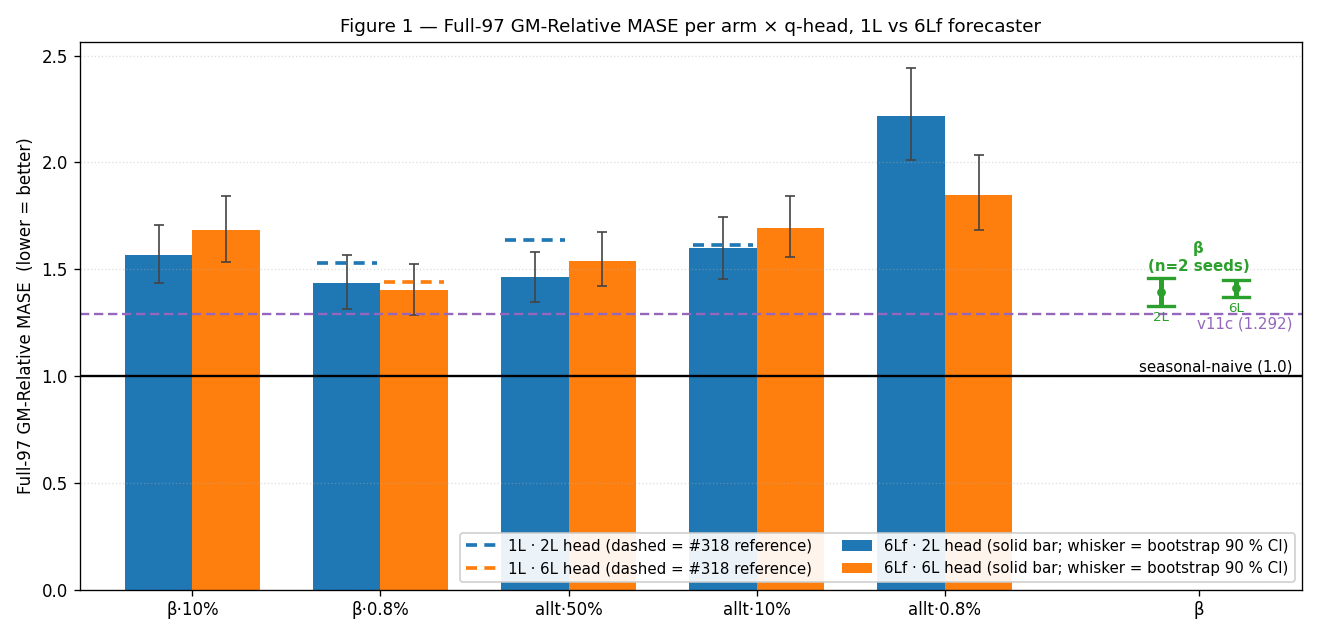
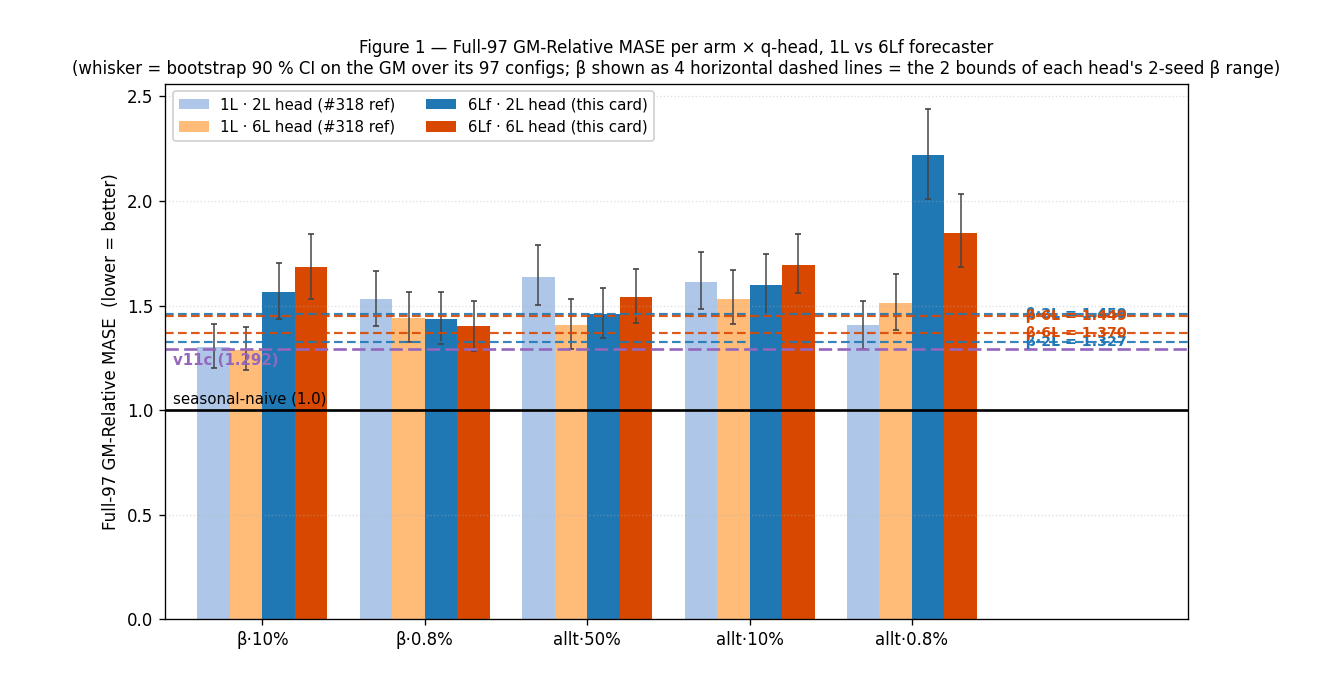
plots(#320 Fig 1): β as 4 full-width horizontal dashed lines (2L pair + 6L pair)
Per the reviewer's clarification on #321: bound lines should span the whole
plot (like v11c does) — never scoped to a single bar (the previous per-bar
dashes were confusing and have been deleted). The β candle on its own x-tick
is also gone; β now appears as 4 horizontal dashed lines across the plot, one
per bound (β·2L low/high in blue, β·6L low/high in orange), with the bound
value tagged at the right end of each line. Variance whiskers are kept on
every bar (bootstrap 90 % CI over the 97 per-config relatives).

diff --git a/experiments/2026-05-26_forked_6Lf/scripts/plots.py b/experiments/2026-05-26_forked_6Lf/scripts/plots.py
@@ -99,80 +99,73 @@ def paired_delta_ci(d1, d6, n=2000, seed=0):
     return (delta, ds[int(0.05 * n)], ds[int(0.95 * n)])
 
 
-# One colour per q-head; 6Lf this card = solid bar (with bootstrap CI whisker);
-# 1L #318 reference = DASHED line at the 1L value, same colour. So per arm × head,
-# the bar sits below the dashed line iff 6Lf is better than 1L there.
-C_2L   = "#1f77b4"   # blue   — 2L q-head
-C_6L   = "#ff7f0e"   # orange — 6L q-head
-C_BETA = "#2ca02c"   # green for β candle
-C_V11C = "#9467bd"   # purple for v11c
+# 4 bars per arm. Light = 1L #318 reference, dark = 6Lf this card.
+# Blue family = 2L q-head, orange family = 6L q-head.
+C_2L_1L = "#aec7e8"   # light blue   — 1L · 2L head (reference)
+C_2L_6F = "#1f77b4"   # dark  blue   — 6Lf · 2L head (this card)
+C_6L_1L = "#ffbb78"   # light orange — 1L · 6L head (reference)
+C_6L_6F = "#d94801"   # dark  orange — 6Lf · 6L head (this card)
+C_V11C  = "#9467bd"   # purple for v11c
 
 
 # ---------------------------------------------------------------- gm_summary
 def plot_gm_summary():
-    fig, ax = plt.subplots(figsize=(11, 5.3))
-    # Per arm: two bars (6Lf·2L | 6Lf·6L) + two dashed reference segments
-    # at the 1L value for that arm × head (same colour as the bar).
-    # Bar shows bootstrap 90 % CI whisker (over the 97 per-config relatives).
-    n_arms, bw = len(ARMS), 0.36
-    seen = set()
-    for ai, (tag1, tag6, _) in enumerate(ARMS):
-        for hd, color, dx in [("2L", C_2L, -bw / 2), ("6L", C_6L, bw / 2)]:
-            g6, (lo6, hi6) = cell(RES_6LF, tag6, hd)
-            g1, _ = cell(RES_1L, tag1, hd)
-            if g6 is not None:
-                # bootstrap CI on this GM (within-config-set spread; NOT seed noise)
-                yerr = None
-                if lo6 is not None and hi6 is not None:
-                    yerr = [[g6 - lo6], [hi6 - g6]]
-                ax.bar(ai + dx, g6, bw, color=color, edgecolor="none",
-                       yerr=yerr, capsize=3, ecolor="#444",
-                       error_kw={"lw": 1.0},
-                       label=(f"6Lf · {hd} head (solid bar; whisker = bootstrap 90 % CI)"
-                              if (f"6Lf-{hd}" not in seen) else None))
-                seen.add(f"6Lf-{hd}")
-            if g1 is not None:
-                ax.plot([ai + dx - bw / 2 + 0.02, ai + dx + bw / 2 - 0.02],
-                        [g1, g1],
-                        color=color, lw=2.2, linestyle=(0, (3, 2)),
-                        label=(f"1L · {hd} head (dashed = #318 reference)"
-                               if (f"1L-{hd}" not in seen) else None))
-                seen.add(f"1L-{hd}")
+    fig, ax = plt.subplots(figsize=(11, 5.8))
+    n_arms, w = len(ARMS), 0.20
+    # 4 bars per arm, in order: 1L·2L, 1L·6L, 6Lf·2L, 6Lf·6L
+    series = [
+        ("1L · 2L head (#318 ref)",  C_2L_1L, "1L",  "2L"),
+        ("1L · 6L head (#318 ref)",  C_6L_1L, "1L",  "6L"),
+        ("6Lf · 2L head (this card)", C_2L_6F, "6Lf", "2L"),
+        ("6Lf · 6L head (this card)", C_6L_6F, "6Lf", "6L"),
+    ]
+    for si, (lab, color, fc, hd) in enumerate(series):
+        xs, ys, los, his = [], [], [], []
+        for ai, (tag1, tag6, _) in enumerate(ARMS):
+            res, tag = (RES_1L, tag1) if fc == "1L" else (RES_6LF, tag6)
+            g, (lo, hi) = cell(res, tag, hd)
+            if g is None:
+                continue
+            xs.append(ai + (si - 1.5) * w); ys.append(g)
+            los.append(g - lo if lo is not None else 0)
+            his.append(hi - g if hi is not None else 0)
+        if ys:
+            ax.bar(xs, ys, w, color=color, edgecolor="none", label=lab,
+                   yerr=[los, his], capsize=2, ecolor="#444",
+                   error_kw={"lw": 0.9})
 
-    # β as a candlestick on its own x-tick to the right of the arms
-    bx = n_arms + 0.35
-    # 2L candle
-    ax.plot([bx - 0.20] * 2, [min(BETA_2L), max(BETA_2L)], color=C_BETA, lw=3, solid_capstyle="butt")
-    ax.plot([bx - 0.27, bx - 0.13], [min(BETA_2L)] * 2, color=C_BETA, lw=2)
-    ax.plot([bx - 0.27, bx - 0.13], [max(BETA_2L)] * 2, color=C_BETA, lw=2)
-    ax.scatter([bx - 0.20], [sum(BETA_2L) / 2], color=C_BETA, s=18, zorder=5)
-    # 6L candle
-    ax.plot([bx + 0.20] * 2, [min(BETA_6L), max(BETA_6L)], color=C_BETA, lw=3, solid_capstyle="butt")
-    ax.plot([bx + 0.13, bx + 0.27], [min(BETA_6L)] * 2, color=C_BETA, lw=2)
-    ax.plot([bx + 0.13, bx + 0.27], [max(BETA_6L)] * 2, color=C_BETA, lw=2)
-    ax.scatter([bx + 0.20], [sum(BETA_6L) / 2], color=C_BETA, s=18, zorder=5)
-    ax.text(bx, max(max(BETA_2L), max(BETA_6L)) + 0.02, "β\n(n=2 seeds)",
-            ha="center", va="bottom", fontsize=9, color=C_BETA, fontweight="bold")
-    ax.text(bx - 0.20, min(BETA_2L) - 0.025, "2L", ha="center", va="top", fontsize=8, color=C_BETA)
-    ax.text(bx + 0.20, min(BETA_6L) - 0.025, "6L", ha="center", va="top", fontsize=8, color=C_BETA)
+    # β shown as FOUR horizontal dashed lines across the plot (the bounds of the
+    # 2-seed range, one pair per head). Each line carries its own short label at
+    # the right margin so the four labels never stack on top of each other.
+    x_lab = n_arms - 0.4 + 0.04   # just past the right edge of the bars
+    for y in BETA_2L:
+        ax.axhline(y, color=C_2L_6F, lw=1.3, linestyle=(0, (4, 2)), alpha=0.9)
+        ax.text(x_lab, y, f"  β·2L = {y:.3f}",
+                ha="left", va="center", fontsize=8.5, color=C_2L_6F, fontweight="bold")
+    for y in BETA_6L:
+        ax.axhline(y, color=C_6L_6F, lw=1.3, linestyle=(0, (4, 2)), alpha=0.9)
+        ax.text(x_lab, y, f"  β·6L = {y:.3f}",
+                ha="left", va="center", fontsize=8.5, color=C_6L_6F, fontweight="bold")
 
-    # References: naive solid black, v11c distinct color
-    ax.axhline(NAIVE, color="black", lw=1.4)
-    ax.text(n_arms + 0.85, NAIVE + 0.005, "seasonal-naive (1.0)",
-            ha="right", va="bottom", fontsize=9, color="black")
-    ax.axhline(V11C, color=C_V11C, lw=1.4, linestyle=(0, (4, 2)))
-    ax.text(n_arms + 0.85, V11C - 0.012, f"v11c ({V11C})",
-            ha="right", va="top", fontsize=9, color=C_V11C)
+    # naive solid black; v11c distinct purple dashed
+    ax.axhline(NAIVE, color="black", lw=1.6)
+    ax.text(-0.55, NAIVE + 0.02, "seasonal-naive (1.0)",
+            ha="left", va="bottom", fontsize=9, color="black")
+    ax.axhline(V11C, color=C_V11C, lw=1.6, linestyle=(0, (5, 2)))
+    ax.text(-0.55, V11C - 0.02, f"v11c ({V11C})",
+            ha="left", va="top", fontsize=9, color=C_V11C, fontweight="bold")
 
-    ax.set_xticks(list(range(n_arms)) + [bx])
-    ax.set_xticklabels([a[2] for a in ARMS] + ["β"])
-    ax.set_xlim(-0.6, n_arms + 0.9)
+    ax.set_xticks(range(n_arms))
+    ax.set_xticklabels([a[2] for a in ARMS])
+    ax.set_xlim(-0.6, n_arms + 0.7)   # extra room on the right for β labels
     ax.set_ylabel("Full-97 GM-Relative MASE  (lower = better)")
     ax.set_title("Figure 1 — Full-97 GM-Relative MASE per arm × q-head, "
-                 "1L vs 6Lf forecaster", fontsize=11)
-    ax.legend(loc="lower right", fontsize=9, ncol=2, framealpha=0.92)
+                 "1L vs 6Lf forecaster\n"
+                 "(whisker = bootstrap 90 % CI on the GM over its 97 configs; "
+                 "β shown as 4 horizontal dashed lines = the 2 bounds of each head's "
+                 "2-seed β range)", fontsize=10)
+    ax.legend(loc="upper left", fontsize=9, ncol=2, framealpha=0.92)
     ax.grid(axis="y", ls=":", alpha=0.4)
-    fig.tight_layout()
     fig.savefig(f"{PLOTS}/gm_summary.png", dpi=120)
     plt.close(fig)
     print("wrote gm_summary.png")
